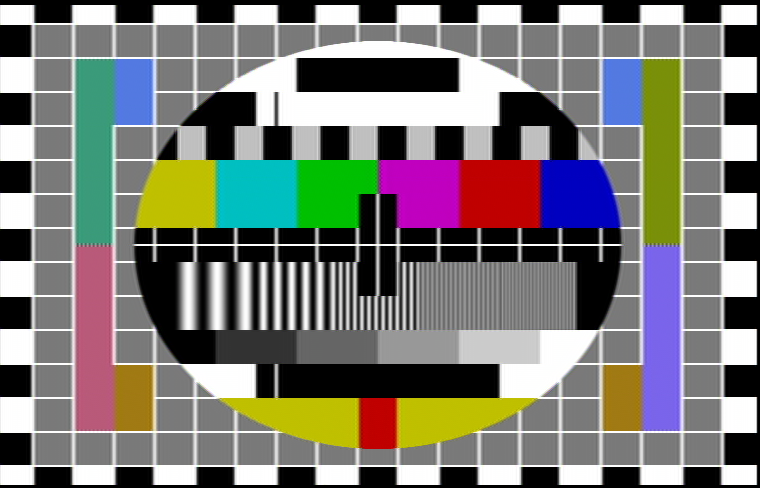
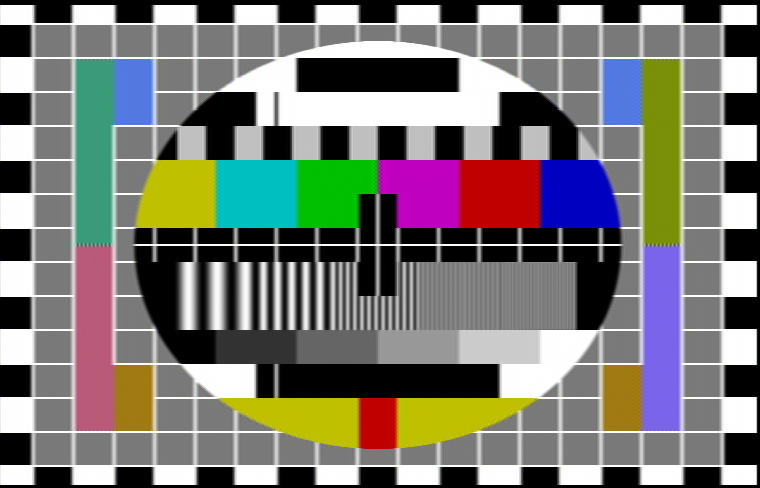
composite-filter: Adjust luma notch filter bandwidth further

Changed region(s): [[0.4237, 0.5225, 0.5447, 0.6762]]

diff --git a/composite-filter/composite_filter.py b/composite-filter/composite_filter.py
@@ -8,7 +8,7 @@ from pathlib import Path
 import numpy as np
 import matplotlib.pyplot as plt
 from PIL import Image
-from scipy.signal import resample_poly, resample
+from scipy import signal
 
 VERSION = "0.4.1"
 
@@ -655,7 +655,6 @@ def encode_image(
 
     # prefilter, if permitted
     if not prefilter_disable:
-        from scipy import signal
         # bandlimiting chroma according to SMPTE 170M-2004, page 5, section 7.2
         # this is to prevent crosstalking to luma
         b_chroma, a_chroma = signal.iirdesign(
@@ -673,7 +672,7 @@ def encode_image(
     if notch_luma:
         # simple notch
         # this is to prevent crosstalking to chroma
-        bw = 2e6
+        bw = 3e6
         q = r.F_SC/bw
         b_luma, a_luma = signal.iirnotch(r.F_SC, q, fs=r.FS)
         nd_img[..., 0] = signal.filtfilt(b_luma, a_luma, nd_img[..., 0])
@@ -684,8 +683,8 @@ def encode_image(
         factor=2
         down = round(factor*r.F_SC/(r.FS/r.FULL_W_PX))
         gauss_wnd = 100
-        nd_img = resample_poly(
-                    resample_poly(
+        nd_img = signal.resample_poly(
+                    signal.resample_poly(
                         nd_img,down ,r.FULL_W_PX, axis=1,
                         window=("gaussian", gauss_wnd)
                     ), r.FULL_W_PX, down, axis=1,
@@ -776,7 +775,6 @@ def main(argv=None):
             args.quiet)
 
     if args.debug:
-        index = args.plot_scanline*r.FULL_W_PX
         plot_signal(args.input_image.stem,
             raster_buf.reshape(
                 (args.frames+2),r.FULL_H_PX,
@@ -818,7 +816,7 @@ def plot_signal(name, arr, quiet=False):
     plt.axis('scaled')
     plt.figure(tight_layout=True, figsize=(20,5))
     plt.plot(x, arr, ".", color="gray")
-    plt.plot(x_new, resample_poly(arr, ups, dws))
+    plt.plot(x_new, signal.resample_poly(arr, ups, dws))
     plt.savefig(f"docs/{name}_scanline.png", dpi=100)
     if not quiet:
         plt.show()

diff --git a/composite-filter/README.md b/composite-filter/README.md
@@ -5,8 +5,9 @@ yet another composite filter, in Python
 ![debug graph of encoding and decoding](docs/example.png)
 
 this filter encodes an input image to composite baseband
-according to BT.1700. outputs a FLAC-compressed 16-bit signal 
-sampled at 13.5MHz.
+according to BT.1700. outputs a FLAC-compressed 16-bit signal sampled at
+13.5MHz.
+
 currently decoding back to RGB is not yet implemented.
 
 ## examples
@@ -110,7 +111,8 @@ options:
 version 0.4.0
 ```
 
-additionally, [vhs-decode and ld-tools](https://github.com/oyvindln/vhs-decode) are used to generate decoded image examples.
+additionally, [vhs-decode and ld-tools](https://github.com/oyvindln/vhs-decode)
+are used to generate decoded image examples.
 
 ## license
 
